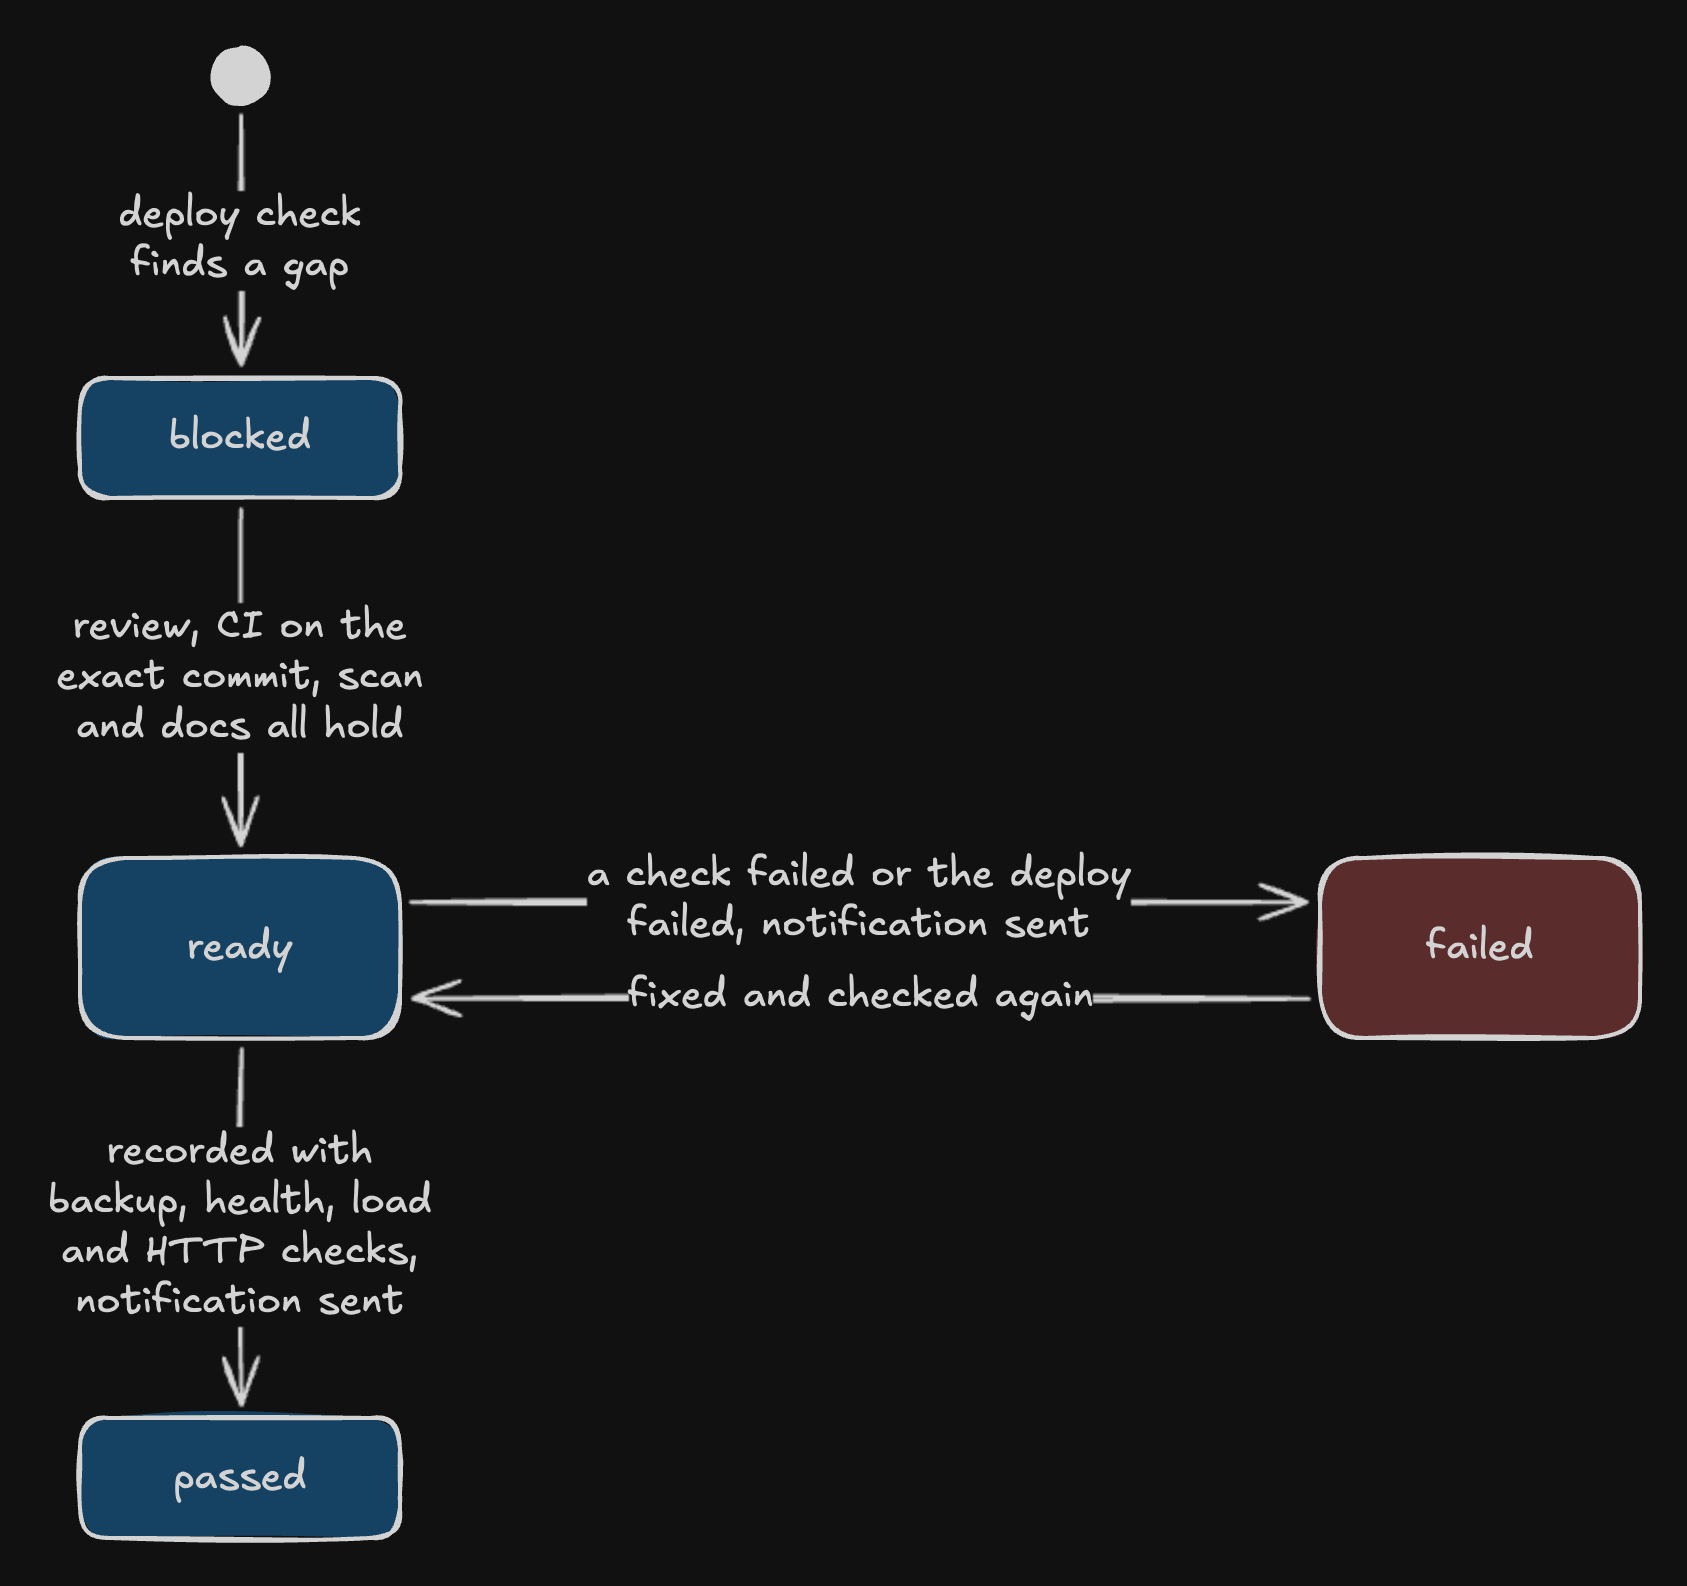
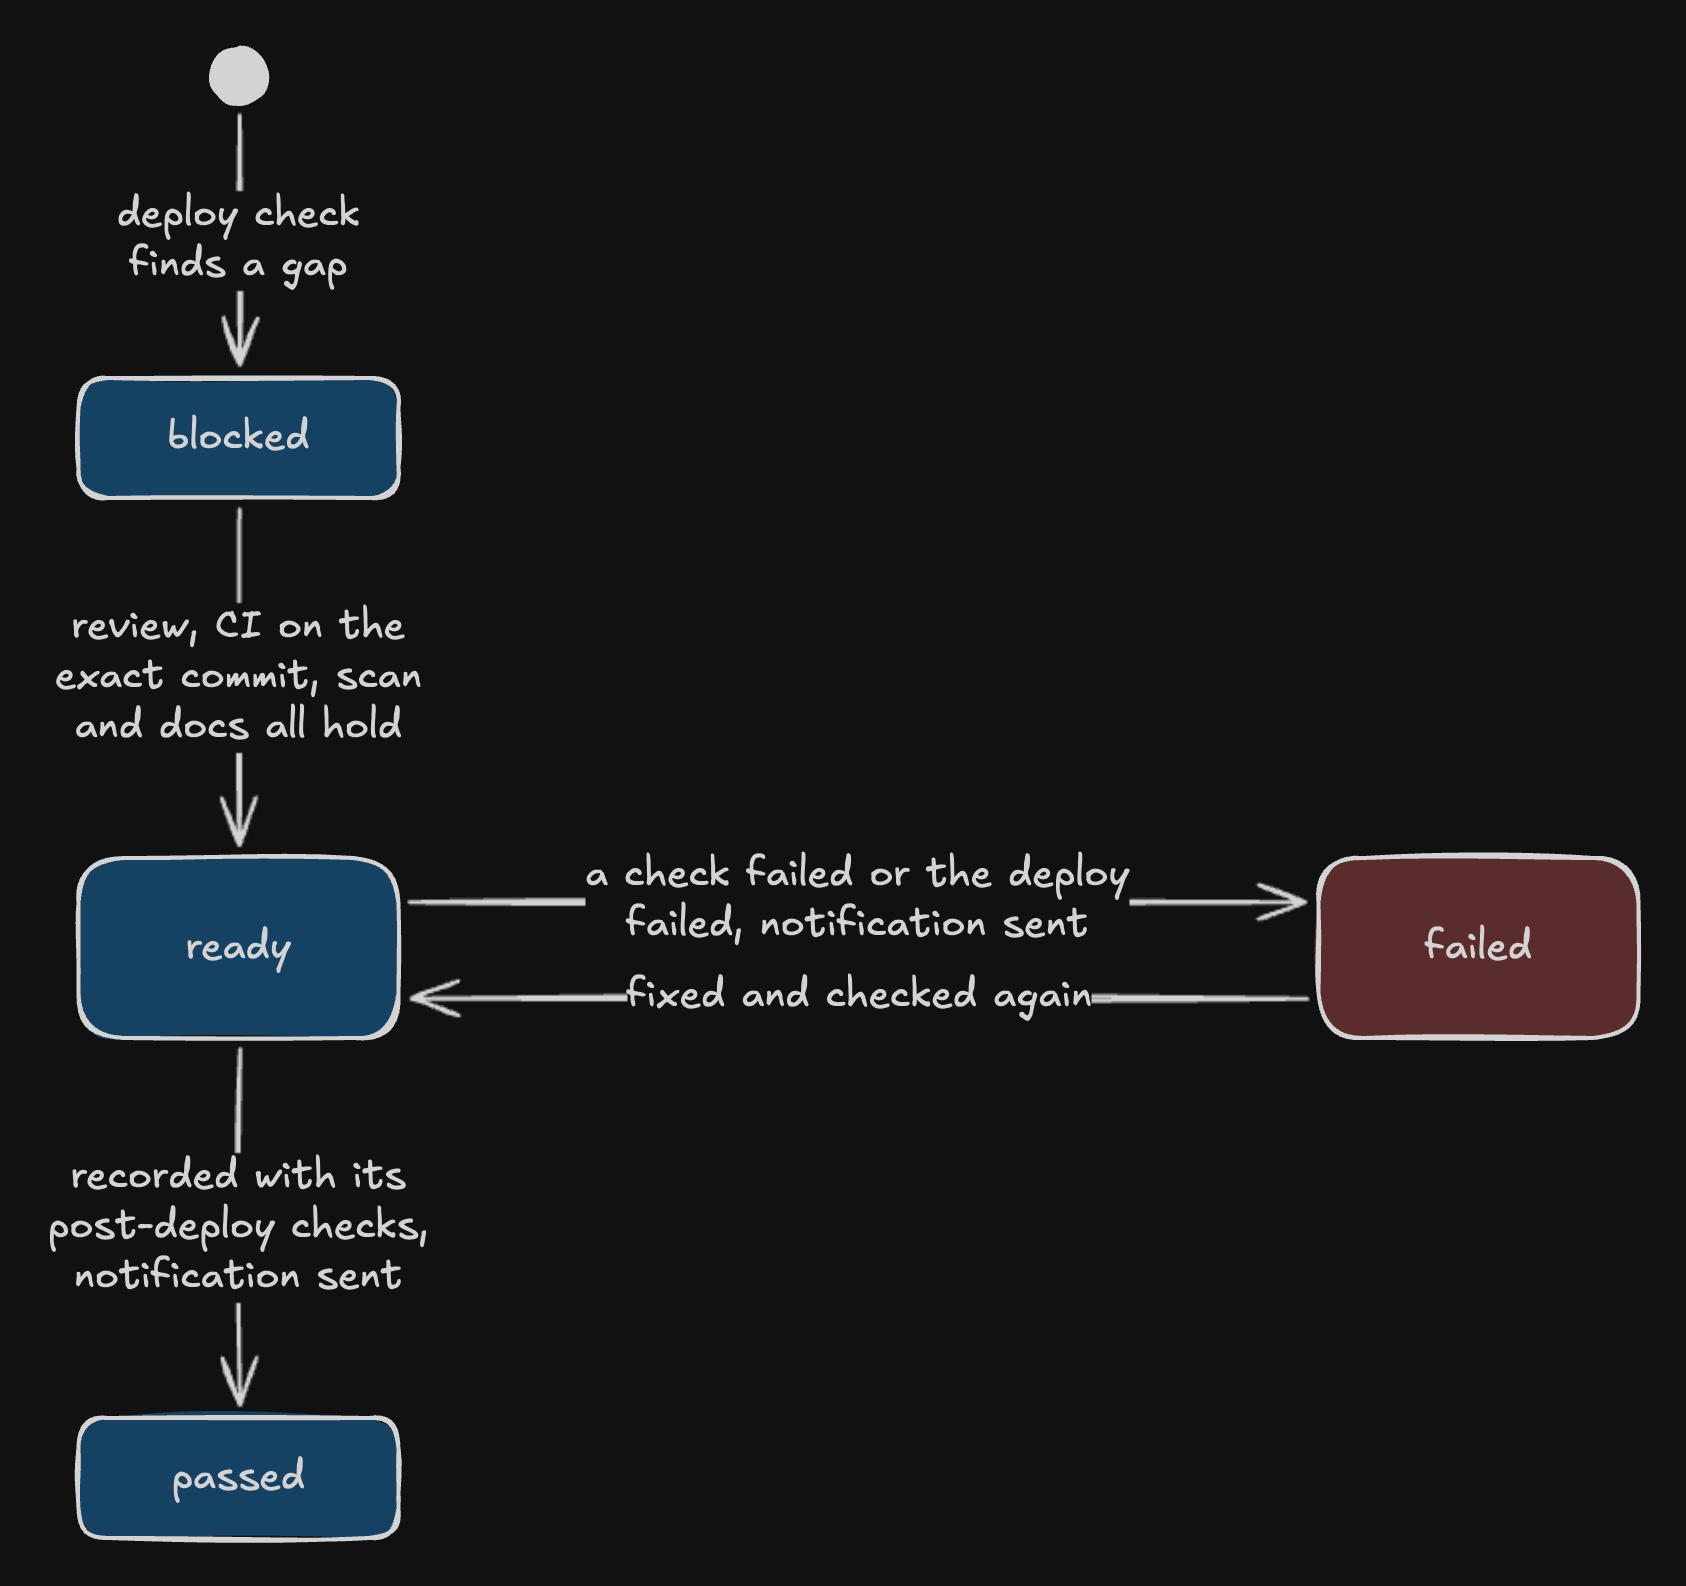
docs(diagrams): live play, deploy, flow, lanes and hotfix drawings say what fits any software, rendered again light and dark

diff --git a/docs/diagrams.md b/docs/diagrams.md
@@ -93,7 +93,7 @@ Source: [diagrams/hotfix.excalidraw](diagrams/hotfix.excalidraw).
 
 <picture>
   <source media="(prefers-color-scheme: dark)" srcset="images/live-play-dark.png">
-  <img src="images/live-play.png" alt="Flowchart of the live play loop: play the deployed build, record what each client receives, fix bugs or ask the owner, then report, decide and ship the fixes as a hotfix run." width="1178">
+  <img src="images/live-play.png" alt="Flowchart of the live play loop: exercise an isolated instance of the deployed commit the way its real users or clients would, check access boundaries where there are any, fix bugs or ask the owner, then report, decide and ship the fixes as a hotfix run." width="1178">
 </picture>
 
 Source: [diagrams/live-play.excalidraw](diagrams/live-play.excalidraw).
@@ -111,7 +111,7 @@ Source: [diagrams/gate.excalidraw](diagrams/gate.excalidraw).
 
 <picture>
   <source media="(prefers-color-scheme: dark)" srcset="images/deploy-steps-dark.png">
-  <img src="images/deploy-steps.png" alt="Sequence diagram of a deploy between the coordinator, pipeline, GitHub, the server and the user, with the deploy check, who runs the deploy, the deploy record, the notification and cleanup." width="1288">
+  <img src="images/deploy-steps.png" alt="Sequence diagram of a deploy between the coordinator, pipeline, GitHub, the deploy target and the user, with the deploy check, who runs the deploy, the post-deploy checks, the deploy record, the notification and cleanup." width="1288">
 </picture>
 
 Source: [diagrams/deploy-steps.excalidraw](diagrams/deploy-steps.excalidraw).
